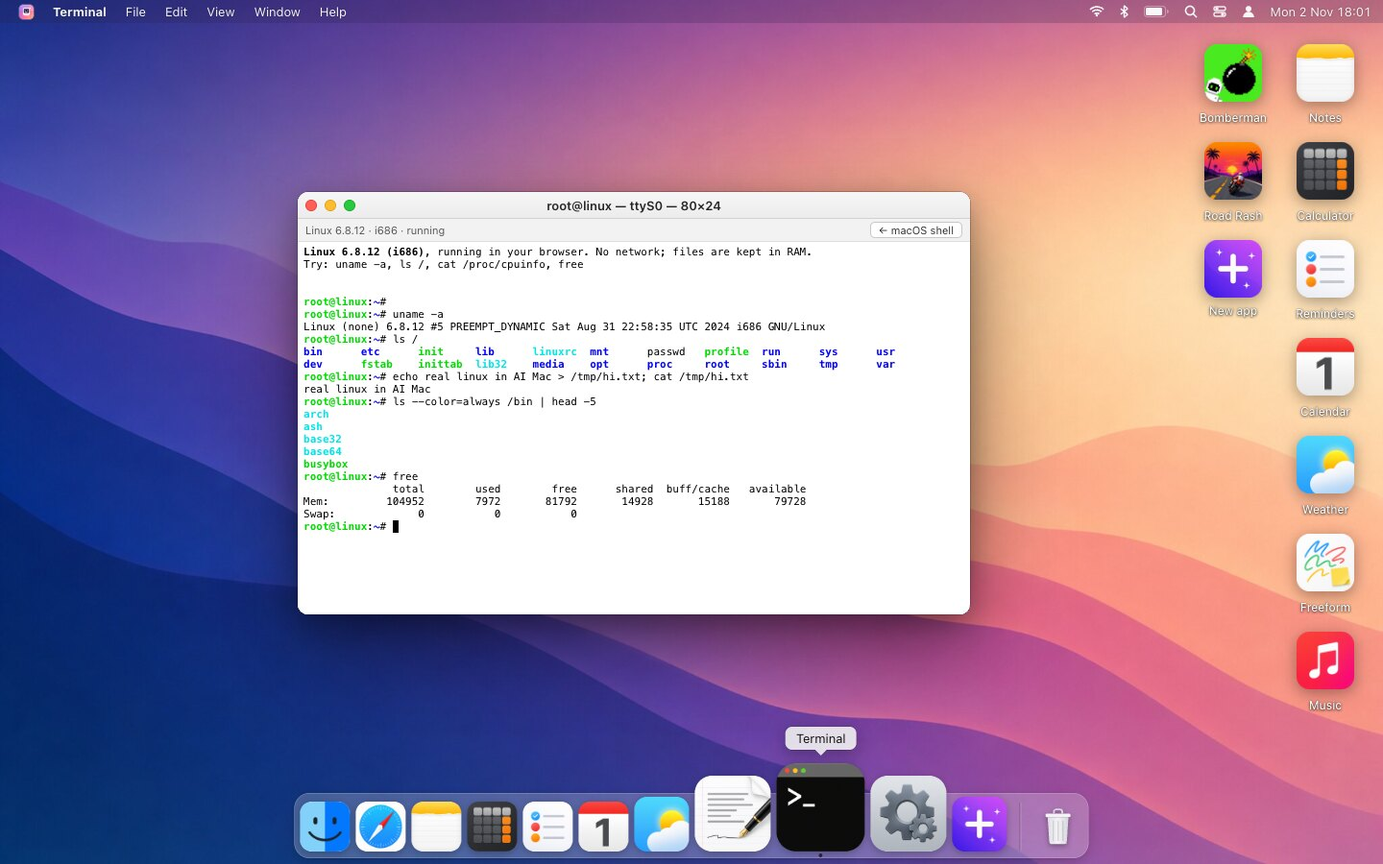
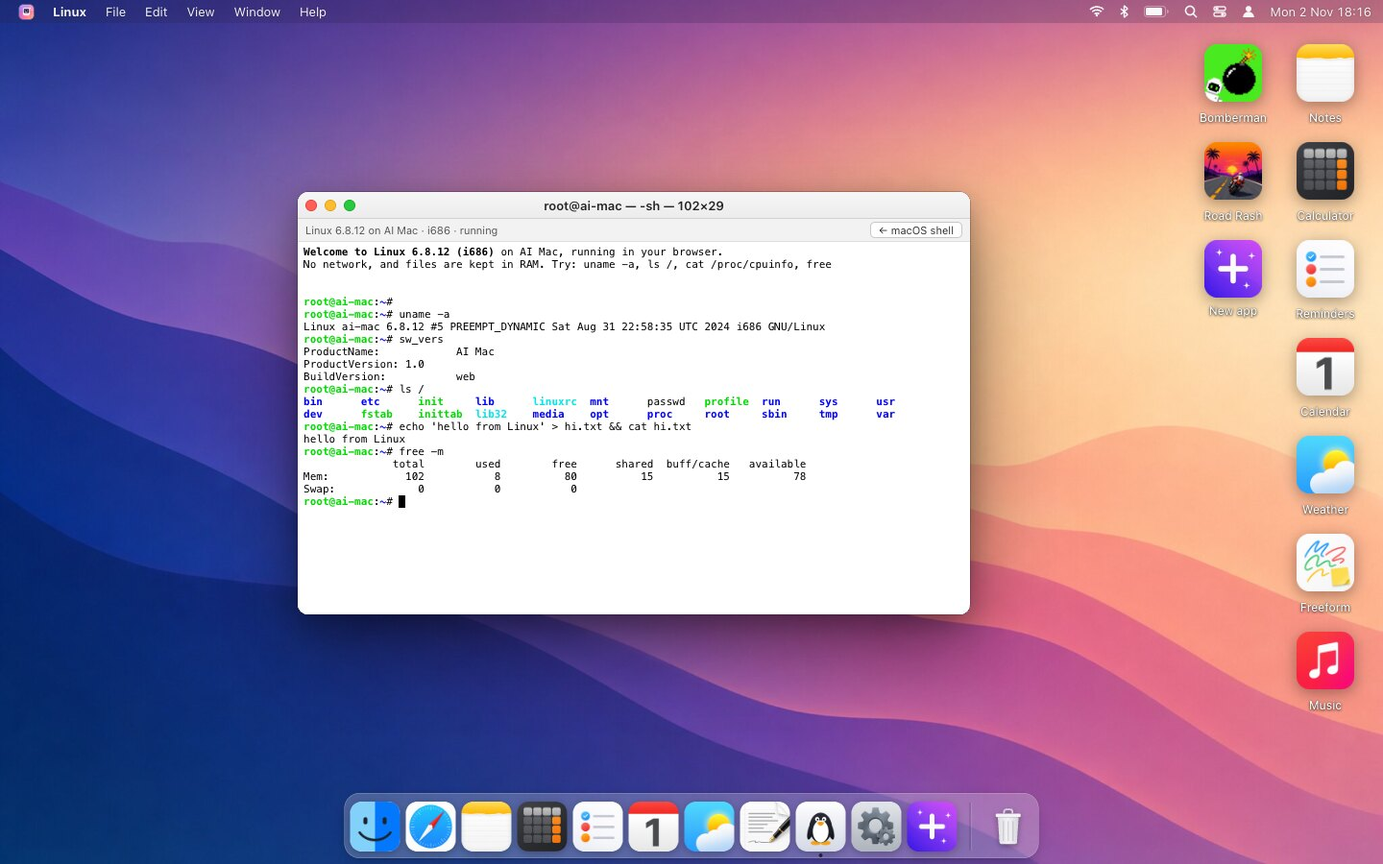
Terminal becomes Linux: opens into real Linux with Mac-style commands
The Terminal app is renamed Linux (penguin icon) and opens straight into
the Linux VM; the macOS-style shell is one click away and is the fallback
when the image is missing. The guest's hostname and prompt follow the
Hostname setting, and the title shows the live window size.

Mac-style commands work inside Linux through a private escape sequence
(OSC 1337): open <app> opens a real desktop window, pbcopy writes to the
clipboard, say speaks, ask queries the model, plus sw_vers, ll and
coloured ls. Cmd+K, Cmd+C and Option-as-Meta follow Terminal.app.

Checked in a headless browser: auto-boot in under 3 seconds, the bridge
commands, vi saving a file, and the fallback with the kernel removed.

Claude-Session: https://claude.ai/code/session_01HY8NS2W2Ex1fVgXepjRVEH

diff --git a/components/LinuxConsole.tsx b/components/LinuxConsole.tsx
@@ -17,22 +17,46 @@ const PROMPT = "[#$%] $";
 const READY = "__AIC_READY__";
 const READY_CMD = "echo __AIC_RE''ADY__";
 
+// Mac-style commands for the Linux shell. They talk to the desktop with a private escape sequence
+// (OSC 1337): the guest prints it, the page acts on it, and for open and ask the page then sends a
+// newline that the function is waiting for (echo off, so nothing shows).
+const MAC_COMMANDS = [
+  "alias ls='ls --color=auto'; alias ll='ls -lah'; alias l='ls -CF'",
+  "__osc() { printf '\\033]1337;%s=%s\\007' \"$1\" \"$(printf %s \"$2\" | base64 | tr -d '\\n')\"; }",
+  "__wait() { stty -echo; __osc \"$1\" \"$2\"; IFS= read -r _; stty echo; }",
+  "open() { [ $# -eq 0 ] && { echo 'usage: open <app name>'; return 1; }; __wait open \"$*\"; }",
+  "ask() { [ $# -eq 0 ] && { echo 'usage: ask <question>'; return 1; }; __wait ask \"$*\"; }",
+  "say() { __osc say \"$*\"; }",
+  "pbcopy() { __osc copy \"$(cat)\"; }",
+  "sw_vers() { printf 'ProductName:\\t\\tAI Mac\\nProductVersion:\\t1.0\\nBuildVersion:\\t\\tweb\\n'; }",
+].join("\n");
+
 /**
  * A real Linux 6.8 (i686) running in this window. The v86 emulator (BSD-2) runs a Buildroot kernel and
  * busybox shell; xterm.js draws its serial console. There is no network, and the disk is RAM, so
  * files are gone when the window closes. Nothing here touches the real machine.
  */
-export function LinuxConsole({ visible, onState }: { visible: boolean; onState: (s: "loading" | "ready" | "error") => void }) {
+/** What the Linux shell may ask of the desktop (open, ask): a Mac-style bridge, answered by the host. */
+export type Bridge = { open: (name: string) => string | null; ask: (prompt: string) => Promise<string> };
+
+export function LinuxConsole({ visible, onState, onSize, hostname, bridge }: { visible: boolean; hostname: string; bridge: Bridge; onSize: (cols: number, rows: number) => void; onState: (s: "loading" | "ready" | "error", why?: string) => void }) {
   const host = useRef<HTMLDivElement>(null);
   const fit = useRef<{ fit: () => void; proposeDimensions: () => { cols: number; rows: number } | undefined } | null>(null);
   const [status, setStatus] = useState("Starting Linux…");
   const [error, setError] = useState("");
   const state = useRef({ onState });
   useEffect(() => { state.current.onState = onState; });
+  const bridgeRef = useRef(bridge);
+  useEffect(() => { bridgeRef.current = bridge; });
+  const onSizeRef = useRef(onSize);
+  useEffect(() => { onSizeRef.current = onSize; });
+  const hostRef = useRef(hostname); // the VM boots once; a later hostname change does not reboot it
+  useEffect(() => { hostRef.current = hostname; });
 
   useEffect(() => {
     let dead = false;
     let emu: Emulator | null = null;
+    const emulatorRef = { current: null as Emulator | null };
     let cleanup = () => {};
 
     (async () => {
@@ -51,6 +75,7 @@ export function LinuxConsole({ visible, onState }: { visible: boolean; onState: 
           fontSize: 11,
           cursorBlink: true,
           scrollback: 5000,
+          macOptionIsMeta: true, // Option+arrows move by word, as in Terminal.app
           theme: { background: "#ffffff", foreground: "#000000", cursor: "#000000", selectionBackground: "#b4d5fe",
             black: "#000000", red: "#c41a16", green: "#00a600", yellow: "#999900", blue: "#0000b2", magenta: "#b200b2", cyan: "#00a6b2", white: "#bfbfbf",
             brightBlack: "#666666", brightRed: "#e50000", brightGreen: "#00d900", brightYellow: "#b3b300", brightBlue: "#0000ff", brightMagenta: "#e500e5", brightCyan: "#00e5e5", brightWhite: "#e5e5e5" },
@@ -60,6 +85,27 @@ export function LinuxConsole({ visible, onState }: { visible: boolean; onState: 
         term.open(host.current);
         fit.current = fitAddon;
         fitAddon.fit();
+        onSizeRef.current(term.cols, term.rows);
+
+        // Terminal.app habits: Cmd+K clears, Cmd+C copies a selection, Cmd+V pastes (xterm does that itself).
+        term.attachCustomKeyEventHandler((e) => {
+          if (e.type !== "keydown" || !e.metaKey) return true;
+          if (e.key === "k") { term.clear(); return false; }
+          if (e.key === "c" && term.hasSelection()) { navigator.clipboard?.writeText(term.getSelection()).catch(() => {}); return false; }
+          return true;
+        });
+        const decode = (b64: string) => { try { return new TextDecoder().decode(Uint8Array.from(atob(b64), (c) => c.charCodeAt(0))); } catch { return ""; } };
+        // The guest's Mac-style commands arrive here: OSC 1337 ; name = base64(text)
+        term.parser.registerOscHandler(1337, (data) => {
+          const i = data.indexOf("=");
+          const cmd = data.slice(0, i), arg = decode(data.slice(i + 1));
+          const release = () => emulatorRef.current?.serial0_send("\n");
+          if (cmd === "open") { const err = bridgeRef.current.open(arg); if (err) term.write(`\r\n\x1b[31m${err}\x1b[0m\r\n`); release(); }
+          else if (cmd === "ask") { bridgeRef.current.ask(arg).then((t) => term.write(`\r\n${t.replace(/\n/g, "\r\n")}\r\n`)).catch(() => term.write("\r\nask: could not reach the model\r\n")).finally(release); }
+          else if (cmd === "say") { try { speechSynthesis.speak(new SpeechSynthesisUtterance(arg)); } catch { /* no voices */ } }
+          else if (cmd === "copy") { navigator.clipboard?.writeText(arg).catch(() => {}); }
+          return true;
+        });
 
         // The VM boots behind a short "booting" message; its own boot log is hidden.
         let booted = false;
@@ -84,6 +130,7 @@ export function LinuxConsole({ visible, onState }: { visible: boolean; onState: 
           disable_speaker: true,
         });
         emu = emulator;
+        emulatorRef.current = emulator;
 
         emulator.add_listener("download-progress", ((e: { file_name: string; loaded: number; total: number }) => {
           if (booted || !e.total) return;
@@ -100,12 +147,13 @@ export function LinuxConsole({ visible, onState }: { visible: boolean; onState: 
             if (!primed && new RegExp(PROMPT).test(tail)) {
               primed = true;
               setStatus("Setting up the shell…");
-              emulator.serial0_send(`${size()}export PS1='\\[\\e[1;32m\\]root@linux\\[\\e[0m\\]:\\[\\e[1;34m\\]\\w\\[\\e[0m\\]# '; ${READY_CMD}\n`);
+              emulator.serial0_send(`export TERM=xterm-256color\n${MAC_COMMANDS}\n`);
+              emulator.serial0_send(`${size()}hostname ${hostRef.current}; export PS1='\\[\\e[1;32m\\]\\u@\\h\\[\\e[0m\\]:\\[\\e[1;34m\\]\\w\\[\\e[0m\\]# '; ${READY_CMD}\n`);
               tail = "";
             } else if (tail.includes(`${READY}\r\n`)) {
               booted = true;
               term.write("\x1bc");
-              term.write("\x1b[1mLinux 6.8.12 (i686)\x1b[0m, running in your browser. No network; files are kept in RAM.\r\nTry: uname -a, ls /, cat /proc/cpuinfo, free\r\n\r\n");
+              term.write("\x1b[1mWelcome to Linux 6.8.12 (i686)\x1b[0m on AI Mac, running in your browser.\r\nNo network, and files are kept in RAM. Try: uname -a, ls /, cat /proc/cpuinfo, free\r\n\r\n");
               emulator.serial0_send("\n");
               setStatus("");
               state.current.onState("ready");
@@ -125,6 +173,7 @@ export function LinuxConsole({ visible, onState }: { visible: boolean; onState: 
           resizeTimer = window.setTimeout(() => {
             if (!host.current || host.current.offsetWidth === 0) return;
             fitAddon.fit();
+            onSizeRef.current(term.cols, term.rows);
             if (booted && /[#$%] $/.test(tail.replace(/\x1b\[[0-9;]*m/g, ""))) emulator.serial0_send(`\x15${size()}\n`);
           }, 150);
         });
@@ -132,7 +181,7 @@ export function LinuxConsole({ visible, onState }: { visible: boolean; onState: 
 
         cleanup = () => { window.clearTimeout(resizeTimer); ro.disconnect(); input.dispose(); if (raf) cancelAnimationFrame(raf); term.dispose(); };
       } catch (e) {
-        if (!dead) { setError(e instanceof Error ? e.message : "Could not start Linux."); state.current.onState("error"); }
+        if (!dead) { const why = e instanceof Error ? e.message : "Could not start Linux."; setError(why); state.current.onState("error", why); }
       }
     })();
 

diff --git a/components/Terminal.tsx b/components/Terminal.tsx
@@ -9,7 +9,8 @@ type Props = { user: { id: number; email: string; name?: string }; apps: AppRow[
 type Line = { text: string; kind?: "in" | "err" };
 
 /**
- * A zsh-looking shell over a virtual disk: your apps live in /Applications and
+ * The Linux app. It opens into a real Linux (LinuxConsole); this file is also the macOS-style shell
+ * behind its "← macOS shell" button: a zsh-looking shell over a virtual disk: your apps live in /Applications and
  * on the Desktop, their saved records under ~/Documents/<app>/<key>.json.
  * Nothing here touches the real machine. `linux` boots a real Linux in the same window (LinuxConsole).
  */
@@ -22,16 +23,22 @@ export function Terminal({ user, apps, hostname, onOpen, onClose, onTitle }: Pro
   const [hist, setHist] = useState<string[]>([]);
   const [hi, setHi] = useState(-1);
   const [busy, setBusy] = useState(false);
-  const [linuxOn, setLinuxOn] = useState(false); // booted once; kept alive while the window is open
-  const [mode, setMode] = useState<"mac" | "linux">("mac");
+  // The Terminal opens straight into Linux; the macOS-style shell is one click away, and is what you get if Linux cannot start.
+  const [linuxOn, setLinuxOn] = useState(true); // kept alive while the window is open
+  const [mode, setModeState] = useState<"mac" | "linux">("linux");
+  const setMode = (m: "mac" | "linux") => { modeRef.current = m; setModeState(m); };
   const [linuxState, setLinuxState] = useState<"loading" | "ready" | "error">("loading");
   const macTitle = `${name} — -zsh — 80×24`;
+  const host = hostname.toLowerCase().replace(/[^a-z0-9-]/g, "").slice(0, 30) || "ai-mac";
+  const sizeRef = useRef("80×24");
+  const modeRef = useRef<"mac" | "linux">("linux");
+  const linuxTitle = `root@${host} — -sh — ${sizeRef.current}`;
   const cache = useRef<Record<string, Record<string, unknown>>>({});
   const box = useRef<HTMLDivElement>(null);
   const inp = useRef<HTMLInputElement>(null);
 
   // eslint-disable-next-line react-hooks/exhaustive-deps -- set once; onTitle is a fresh closure every render
-  useEffect(() => { onTitle(macTitle); }, [name]);
+  useEffect(() => { onTitle(linuxTitle); }, [name]);
   useEffect(() => { box.current?.scrollTo(0, box.current.scrollHeight); }, [lines, busy]);
 
   const prompt = `${name}@${hostname} ${cwd === home ? "~" : cwd.startsWith(home + "/") ? "~" + cwd.slice(home.length) : cwd} %`;
@@ -98,7 +105,7 @@ Your apps are in /Applications; their saved records are in ~/Documents/<app>/.`;
     switch (c) {
       case "help": case "man": return print(HELP);
       case "clear": return setLines([]);
-      case "linux": { setLinuxOn(true); setMode("linux"); onTitle("root@linux — ttyS0 — 80×24"); return; }
+      case "linux": { setLinuxOn(true); setMode("linux"); onTitle(linuxTitle); return; }
       case "pwd": return print(cwd);
       case "whoami": return print(name);
       case "hostname": return print(`${hostname}.local`);
@@ -146,11 +153,18 @@ Your apps are in /Applications; their saved records are in ~/Documents/<app>/.`;
     <div className={styles.wrap}>
     {linuxOn ? (
       <div className={styles.linuxBar} style={{ display: mode === "linux" ? undefined : "none" }}>
-        <span>Linux 6.8.12 · i686 · {linuxState === "ready" ? "running" : linuxState === "error" ? "stopped" : "starting"}</span>
+        <span>Linux 6.8.12 on AI Mac · i686 · {linuxState === "ready" ? "running" : linuxState === "error" ? "stopped" : "starting"}</span>
         <button onClick={() => { setMode("mac"); onTitle(macTitle); setTimeout(() => inp.current?.focus(), 0); }}>← macOS shell</button>
       </div>
     ) : null}
-    {linuxOn ? <LinuxConsole visible={mode === "linux"} onState={setLinuxState} /> : null}
+    {linuxOn ? <LinuxConsole hostname={host} visible={mode === "linux"} onSize={(c, r) => { sizeRef.current = `${c}×${r}`; if (modeRef.current === "linux") onTitle(`root@${host} — -sh — ${c}×${r}`); }}
+      bridge={{
+        open: (n) => { const a = findApp(n.replace(/^-a\s+/, "")); if (!a) return `open: ${n}: no such app`; onOpen(a.slug); return null; },
+        ask: async (q) => { const r = await fetch("/api/system/ask", { method: "POST", headers: { "content-type": "application/json" }, body: JSON.stringify({ prompt: q }) }); const j = await r.json().catch(() => ({})); return r.ok ? j.text : `ask: ${j.error || "failed"}`; },
+      }} onState={(s, why) => {
+      setLinuxState(s);
+      if (s === "error") { setMode("mac"); setLinuxOn(false); onTitle(macTitle); print(`linux: ${why || "could not start"}. Using the macOS shell.`, "err"); }
+    }} /> : null}
     <div className={styles.term} ref={box} style={{ display: mode === "mac" ? undefined : "none" }} onClick={() => inp.current?.focus()}>
       {lines.map((l, i) => <div key={i} className={`${styles.line} ${l.kind === "err" ? styles.err : ""} ${l.kind === "in" ? styles.in : ""}`}>{l.text || " "}</div>)}
       {busy ? <div className={styles.line}>…</div> : (

diff --git a/components/ActivityMonitor.tsx b/components/ActivityMonitor.tsx
@@ -75,7 +75,7 @@ export function ActivityMonitor({ apps, wins, onCloseWindow, onOpenApp, onTitle,
     list.push({ pid: 4, name: "SystemUIServer", cpu: 0.1, mem: 9e6, threads: 2, kind: "system", state: "Running" });
     list.push({ pid: 10, name: `aicd (server, pid ${cur?.server.pid ?? "…"})`, cpu: cur?.server.cpu ?? 0, mem: cur?.server.rss ?? 0, threads: 11, kind: "system", state: cur?.building.length ? "Building" : "Running" });
     list.push({ pid: 11, name: "postgres", cpu: 0.4 + (cur?.db.connections ?? 0) * 0.2, mem: 64e6, threads: cur?.db.connections ?? 1, kind: "system", state: "Running" });
-    open.forEach((w, i) => { const a = apps.find((x) => x.slug === w.slug) ?? ({ finder: { name: "Finder", icon_url: "/icons/finder.png" }, textedit: { name: "TextEdit", icon_url: "/icons/textedit.png" }, activity: { name: "Activity Monitor", icon_url: "/icons/activity.png" }, settings: { name: "System Settings", icon_url: "/icons/settings.png" }, terminal: { name: "Terminal", icon_url: "/icons/terminal.png" }, browser: { name: "Safari", icon_url: "/icons/browser.png" }, keynote: { name: "How It's Made", icon_url: "/icons/keynote.png" } } as Record<string, { name: string; icon_url: string }>)[w.slug] as AppRow | undefined; const building = cur?.building.find((b) => b.slug === w.slug); list.push({ pid: 100 + w.id, name: a?.name ?? w.slug, icon: a?.icon_url, cpu: building ? 12 + ((now % 1000) / 1000) * 6 : w.state === "min" ? 0 : 0.5 + (i === 0 ? 1.5 : 0.3) + ((now % 500) / 500) * 0.6, mem: 24e6 + (a?.version ?? 1) * 1.5e6 + (building ? building.chars * 2 : 0), threads: building ? 9 : 5, kind: "app", state: building ? `Writing (${building.chars.toLocaleString()} chars)` : w.state === "min" ? "Minimised" : "Running", slug: w.slug, winId: w.id }); });
+    open.forEach((w, i) => { const a = apps.find((x) => x.slug === w.slug) ?? ({ finder: { name: "Finder", icon_url: "/icons/finder.png" }, textedit: { name: "TextEdit", icon_url: "/icons/textedit.png" }, activity: { name: "Activity Monitor", icon_url: "/icons/activity.png" }, settings: { name: "System Settings", icon_url: "/icons/settings.png" }, terminal: { name: "Linux", icon_url: "/icons/linux.png" }, browser: { name: "Safari", icon_url: "/icons/browser.png" }, keynote: { name: "How It's Made", icon_url: "/icons/keynote.png" } } as Record<string, { name: string; icon_url: string }>)[w.slug] as AppRow | undefined; const building = cur?.building.find((b) => b.slug === w.slug); list.push({ pid: 100 + w.id, name: a?.name ?? w.slug, icon: a?.icon_url, cpu: building ? 12 + ((now % 1000) / 1000) * 6 : w.state === "min" ? 0 : 0.5 + (i === 0 ? 1.5 : 0.3) + ((now % 500) / 500) * 0.6, mem: 24e6 + (a?.version ?? 1) * 1.5e6 + (building ? building.chars * 2 : 0), threads: building ? 9 : 5, kind: "app", state: building ? `Writing (${building.chars.toLocaleString()} chars)` : w.state === "min" ? "Minimised" : "Running", slug: w.slug, winId: w.id }); });
     cur?.building.filter((b) => !open.some((w) => w.slug === b.slug)).forEach((b, i) => list.push({ pid: 300 + i, name: `${b.name} (build)`, icon: apps.find((a) => a.slug === b.slug)?.icon_url, cpu: 14 + ((now % 700) / 700) * 5, mem: 20e6 + b.chars * 2, threads: 8, kind: "app", state: b.status, slug: b.slug }));
     return list.filter((p) => !q || p.name.toLowerCase().includes(q.toLowerCase())).sort((a, b) => (sort === "name" ? a.name.localeCompare(b.name) : sort === "mem" ? b.mem - a.mem : b.cpu - a.cpu));
   }, [wins, apps, cur, frame.busy, heap, q, sort, now]);

diff --git a/components/Presentation.tsx b/components/Presentation.tsx
@@ -92,7 +92,7 @@ type Slide = { title: string; kicker?: string; body?: React.ReactNode; notes: st
 function buildSlides(stats: Props["stats"], onOpenApp: (s: string) => void): Slide[] {
   return [
     { title: "AI Mac", kicker: "A desktop whose apps are written the moment you open them", body: <div className={styles.hero}><span className={styles.logo} /><p>Everything in this deck is drawn by the desktop itself. Press → to continue.</p></div>, notes: "Title. The whole experiment in one line." },
-    { title: "The idea", body: <ul className={styles.bullets}><li>A Mac-style desktop in the browser: menu bar, Dock, windows, Spotlight, System Settings, Terminal, Safari.</li><li>The icons are promises. Double-click one and a model writes that app, in front of you, in about a minute.</li><li>After that it opens from your own cache in a few hundred milliseconds, with your records.</li><li>“New app” turns a sentence into a new icon. “Improve” rewrites any app the way you ask and keeps the old versions.</li></ul>, notes: "The premise: nothing exists until you ask for it, then it is yours." },
+    { title: "The idea", body: <ul className={styles.bullets}><li>A Mac-style desktop in the browser: menu bar, Dock, windows, Spotlight, System Settings, a real Linux, Safari.</li><li>The icons are promises. Double-click one and a model writes that app, in front of you, in about a minute.</li><li>After that it opens from your own cache in a few hundred milliseconds, with your records.</li><li>“New app” turns a sentence into a new icon. “Improve” rewrites any app the way you ask and keeps the old versions.</li></ul>, notes: "The premise: nothing exists until you ask for it, then it is yours." },
     { title: "Architecture", body: <Architecture />, notes: "Next.js serves the desktop and the API. Postgres holds users, apps, versions and records. Apps run in sandboxed frames and talk to the desktop over postMessage." },
     { title: "How an app gets written", body: <Pipeline />, notes: "Brief, design, write, validate, run in headless Chromium, repair once, save as a version." },
     { title: "The bridge", kicker: "What an app is allowed to do", body: <Bridge />, notes: "Five calls. Storage per app and key, a question to a cheaper model, open another app, retitle, notify." },

diff --git a/components/Settings.tsx b/components/Settings.tsx
@@ -209,7 +209,7 @@ export function Settings({ user, apps, prefs, setPrefs, wallpaper, setWallpaper,
         </>; }
         case "sharing": return <>
           <Group title="Local hostname">
-            <Row label="Hostname" sub="Used by the Terminal prompt"><input className={styles.text} value={p("hostname", "AI-Mac")} onChange={(e) => set("hostname", e.target.value.replace(/[^A-Za-z0-9-]/g, "").slice(0, 24) || "AI-Mac")} /></Row>
+            <Row label="Hostname" sub="Used by the Linux and shell prompts"><input className={styles.text} value={p("hostname", "AI-Mac")} onChange={(e) => set("hostname", e.target.value.replace(/[^A-Za-z0-9-]/g, "").slice(0, 24) || "AI-Mac")} /></Row>
           </Group>
           <Group>
             {["Screen Sharing", "File Sharing", "Media Sharing", "Printer Sharing", "Remote Login", "Remote Management", "Internet Sharing", "Content Caching"].map((s) => <Row key={s} label={s}><Toggle on={false} onChange={() => notify(`${s} is not available on this Mac.`, "Sharing")} /></Row>)}
@@ -306,7 +306,7 @@ export function Settings({ user, apps, prefs, setPrefs, wallpaper, setWallpaper,
         <Group><Row label="Automatically hide and show the menu bar"><Sel value={p("hideMenuBar", "never")} options={[["never", "Never"], ["fullscreen", "In Full Screen Only"]]} onChange={(v) => set("hideMenuBar", v)} /></Row></Group>
       </>; }
       case "siri": return <>
-        <Group><Row label="Ask Siri" sub="Siri is not available on a web desktop; the Terminal's `ask` command talks to the model"><Toggle on={false} onChange={() => {}} disabled /></Row></Group>
+        <Group><Row label="Ask Siri" sub="Siri is not available on a web desktop; the shell's `ask` command talks to the model"><Toggle on={false} onChange={() => {}} disabled /></Row></Group>
         <Group title="Spotlight" note="Choose what Spotlight searches.">
           <Row label="Applications"><Toggle on={true} onChange={() => {}} disabled /></Row>
           <Row label="App descriptions"><Toggle on={p("spotlightDescriptions", true)} onChange={(v) => set("spotlightDescriptions", v)} /></Row>

diff --git a/lib/catalog.ts b/lib/catalog.ts
@@ -98,7 +98,7 @@ export const BUILTIN_APPS = [
   { slug: "activity", name: "Activity Monitor", icon: "/icons/activity.png", description: "Live CPU, memory, energy, disk and network for this desktop and its server." },
   { slug: "textedit", name: "TextEdit", icon: "/icons/textedit.png", description: "Rich and plain text documents, saved into your files." },
   { slug: "settings", name: "System Settings", icon: "/icons/settings.png", description: "Appearance, wallpaper, dock, displays, notifications, users, privacy and everything else about this Mac." },
-  { slug: "terminal", name: "Terminal", icon: "/icons/terminal.png", description: "A zsh style shell over your apps and their data." },
+  { slug: "terminal", name: "Linux", icon: "/icons/linux.png", description: "A real Linux in your browser. The macOS-style shell over your apps and their data is one click away." },
   { slug: "browser", name: "Safari", icon: "/icons/browser.png", description: "Browse the web. Pages open through AI Mac in a sealed frame." },
   { slug: "keynote", name: "How It's Made", icon: "/icons/keynote.png", description: "A Keynote-style deck on how AI Mac works: architecture, the generation pipeline, the sandbox, the review loop." },
 ] as const;

diff --git a/lib/files.ts b/lib/files.ts
@@ -3,14 +3,14 @@ import { ensureSchema, sql } from "./db";
 /**
  * Each user has a small file system in Postgres: folders and text files under
  * a home with the usual macOS folders. Finder browses it, TextEdit edits it,
- * the Terminal lists and reads it. Paths are absolute and start with "/".
+ * the Linux app's macOS-style shell lists and reads it. Paths are absolute and start with "/".
  */
 export type FileRow = { path: string; name: string; kind: "file" | "folder"; content: string; mime: string; size: number; created_at: string; updated_at: string };
 
 const HOME_FOLDERS = ["Desktop", "Documents", "Downloads", "Movies", "Music", "Pictures", "Public"];
 const WELCOME = `Welcome to AI Mac
 
-This is your home folder. Finder shows it, TextEdit edits what is in it, and the Terminal can list it with ls and read it with cat.
+This is your home folder. Finder shows it, TextEdit edits what is in it, and the Linux app's macOS-style shell can list it with ls and read it with cat.
 
 Documents you save in TextEdit land in Documents. Files you move to the Trash sit in the Trash until you empty it.
 

diff --git a/app/api/system/ask/route.ts b/app/api/system/ask/route.ts
@@ -2,7 +2,7 @@ import { NextResponse } from "next/server";
 import { requireUser } from "@/lib/auth";
 import { CHAT_MODEL, openai } from "@/lib/openai";
 
-/** The Terminal's `ask` command. */
+/** The `ask` command of the Linux app's macOS-style shell. */
 export async function POST(req: Request) {
   await requireUser();
   const { prompt } = await req.json().catch(() => ({}));

diff --git a/README.md b/README.md
@@ -26,7 +26,7 @@
 </p>
 
 <p align="center">
-  <img src="docs/images/tour.gif" alt="A tour of AI Mac: sign in with an emailed code, open Calculator, Notes, Weather, Music, Calendar, play Bomberman, use the Terminal" width="860">
+  <img src="docs/images/tour.gif" alt="A tour of AI Mac: sign in with an emailed code, open Calculator, Notes, Weather, Music, Calendar, play Bomberman, open Linux" width="860">
 </p>
 
 > **An experiment, not a product.** AI Mac is an independent project. It is not affiliated with, endorsed by or sponsored by Apple Inc. "Mac", "macOS" and the names of Apple's apps are trademarks of Apple Inc.; the apps here are original code written to resemble them.
@@ -39,8 +39,8 @@ Sign in with just your email (a six digit code arrives by email, no password; ne
 - **"New app" turns a sentence into a new icon.** *"A habit tracker with streaks"* becomes an app on your desktop with a generated icon.
 - **"Improve" rewrites an app the way you ask**, and keeps every old version so you can roll back.
 - **Apps are sandboxed.** Generated code runs in an iframe with no origin and talks to the desktop only through a small, narrow API.
-- **A real Linux, in the Terminal.** Type `linux` and a real Linux 6.8 kernel boots in the window in about two seconds, running entirely in your browser.
-- **It also ships real, hand-written apps:** Finder, TextEdit, Terminal, Safari (a sandboxed proxy browser), System Settings and Activity Monitor, plus reviewed builds of the default apps so a new desktop works at once.
+- **A real Linux.** The Linux app opens straight into a real Linux 6.8 kernel that boots in about two seconds, running entirely in your browser, with Mac-style commands like `open Notes` and `pbcopy`.
+- **It also ships real, hand-written apps:** Finder, TextEdit, Linux, Safari (a sandboxed proxy browser), System Settings and Activity Monitor, plus reviewed builds of the default apps so a new desktop works at once.
 
 ## Screenshots
 
@@ -59,7 +59,7 @@ Sign in with just your email (a six digit code arrives by email, no password; ne
   </tr>
   <tr>
     <td><img src="docs/images/calculator.jpg" alt="The Calculator app showing 46"><br><sub><b>Calculator</b> — keyboard and mouse.</sub></td>
-    <td><img src="docs/images/linux.jpg" alt="The Terminal running a real Linux 6.8 shell: uname, ls, free"><br><sub><b>Terminal, in Linux mode</b> — type <code>linux</code> for a real Linux kernel in the window.</sub></td>
+    <td><img src="docs/images/linux.jpg" alt="The Linux app running a real Linux 6.8 shell: uname, sw_vers, ls, free"><br><sub><b>Linux</b> — a real kernel in the window, with Mac-style commands.</sub></td>
   </tr>
 </table>
 
@@ -222,7 +222,7 @@ Besides the generated apps, the desktop has a set of real, hand-written componen
 | --- | --- |
 | Finder | browses your files, a small file system stored in Postgres (`lib/files.ts`), with the usual macOS folders and a Trash |
 | TextEdit | edits the text files in that file system |
-| Terminal | a simulated shell over the same files with `ls`, `cat` and friends, plus `linux` for a real Linux in the window |
+| Linux | a real Linux in the browser (see above), plus a simulated macOS-style shell over the same files with `ls`, `cat` and friends |
 | Safari | the proxy-backed browser, with Reader mode, find and zoom |
 | Settings | wallpaper, dock and appearance preferences |
 | Activity Monitor | shows running windows and builds |
@@ -246,7 +246,7 @@ app/              pages and API routes
   api/auth/       otp/request, otp/verify, logout
   api/apps/       list, create; per app: get or build, improve, data, ask, versions
   api/browse/     the sandboxed proxy behind Safari
-  api/files/      the per-user file system behind Finder, TextEdit and Terminal
+  api/files/      the per-user file system behind Finder, TextEdit and the macOS-style shell in Linux
 components/       Desktop (menu bar, icons, dock, windows), AppWindow (iframe, bridge, build UI), the built-in apps and LinuxConsole (the real Linux)
 lib/              db, auth, otp, catalog of default apps, generation, jobs, sandbox bridge, runtime check
 templates/        reviewed builds of the default apps, installed on first open
@@ -254,16 +254,17 @@ public/           wallpaper, icons and the logo; public/linux/ holds the Linux t
 docs/images/      README screenshots and the tour GIF
 ```
 
-## Linux in the Terminal
+## Linux
 
-Open Terminal and type `linux`. A real Linux 6.8 kernel (i686, with a busybox shell) boots in the same window in about two seconds, drawn by [xterm.js](https://xtermjs.org). A bar at the top switches back to the macOS-style shell, and the Linux session stays alive while you do.
+The **Linux** app (the penguin in the dock) opens straight into a real Linux 6.8 kernel (i686, with a busybox shell) that boots in about two seconds, drawn by [xterm.js](https://xtermjs.org). A bar at the top switches to the macOS-style shell, and the Linux session stays alive while you do. If the Linux image is missing, the app falls back to the macOS-style shell and says why.
 
 - **It runs in your browser,** inside the [v86](https://github.com/copy/v86) x86 emulator (BSD-2-Clause) compiled to WebAssembly. Nothing runs on the server, and it needs no special headers.
-- **There is no network, and the disk is RAM.** Files live until the window closes. Real commands and real files, but not a package manager, and not Python or Node: the image is a minimal Buildroot system.
-- **Setup is automatic.** `npm run dev` and `npm run build` run `scripts/linux-assets.mjs`, which copies the engine from `node_modules` and downloads the 10 MB kernel once, checking a pinned SHA-256. If the download fails, only the `linux` command is affected.
+- **It feels like a Mac terminal.** Cmd+K clears, Cmd+C copies a selection, Option+arrows move by word, and the title shows the live size. The prompt and hostname follow the *Hostname* setting (`root@ai-mac:~#`).
+- **Mac commands work inside Linux.** `open Notes` opens the real Notes window, `pbcopy` copies to your clipboard, `say` speaks, `ask <question>` asks the model, and `sw_vers`, `ll` and coloured `ls` are there too. They talk to the desktop through a private escape sequence, so they need no network.
+- **What is in the image:** busybox tools, `vi` (not vim), `lua`, `awk`, `sed`, `tar`, `curl` and `wget`. It has **no Python, vim, nano, gcc, git or bash**: it is a minimal Buildroot system.
+- **There is no network, and the disk is RAM.** Files live until the window closes.
+- **Setup is automatic.** `npm run dev` and `npm run build` run `scripts/linux-assets.mjs`, which copies the engine from `node_modules` and downloads the 10 MB kernel once, checking a pinned SHA-256.
 - **Licences.** The kernel and busybox are GPL-2.0; see [THIRD_PARTY_NOTICES.md](THIRD_PARTY_NOTICES.md) for every component, its licence and where to get the source.
-
-A fuller distribution (Alpine or Arch Linux 32 over 9p) and a persistent disk are possible next steps; they need a hosting decision for the larger images.
 
 ## Admin panel
 

diff --git a/CHANGELOG.md b/CHANGELOG.md
@@ -5,7 +5,7 @@ All notable changes to this project are documented here. The format follows [Kee
 ## [Unreleased]
 
 ### Added
-- A real Linux in the Terminal: type `linux` to boot a Linux 6.8 (i686) kernel and busybox shell in the window, running in the browser through the v86 emulator. No network, RAM disk, no special headers. See `THIRD_PARTY_NOTICES.md` for licences.
+- A real Linux: the Terminal app is now **Linux** (penguin icon) and opens straight into a Linux 6.8 (i686) kernel and busybox shell, running in the browser through the v86 emulator, with the macOS-style shell one click away (and as the fallback if the image is missing). Mac-style commands work inside it (`open`, `pbcopy`, `say`, `ask`, `sw_vers`), and Cmd+K, Cmd+C and Option-as-Meta behave as in Terminal.app. No network, RAM disk, no special headers. See `THIRD_PARTY_NOTICES.md` for licences.
 - AI Mac logo, favicon and Apple touch icon; the logo is on the sign-in card and in the menu bar.
 - Open-source project files: MIT license, contributing guide, code of conduct, security policy, issue and pull request templates, CI, CodeQL and Dependabot.
 - README rewritten with screenshots, a tour GIF, an architecture diagram and a quick start.
